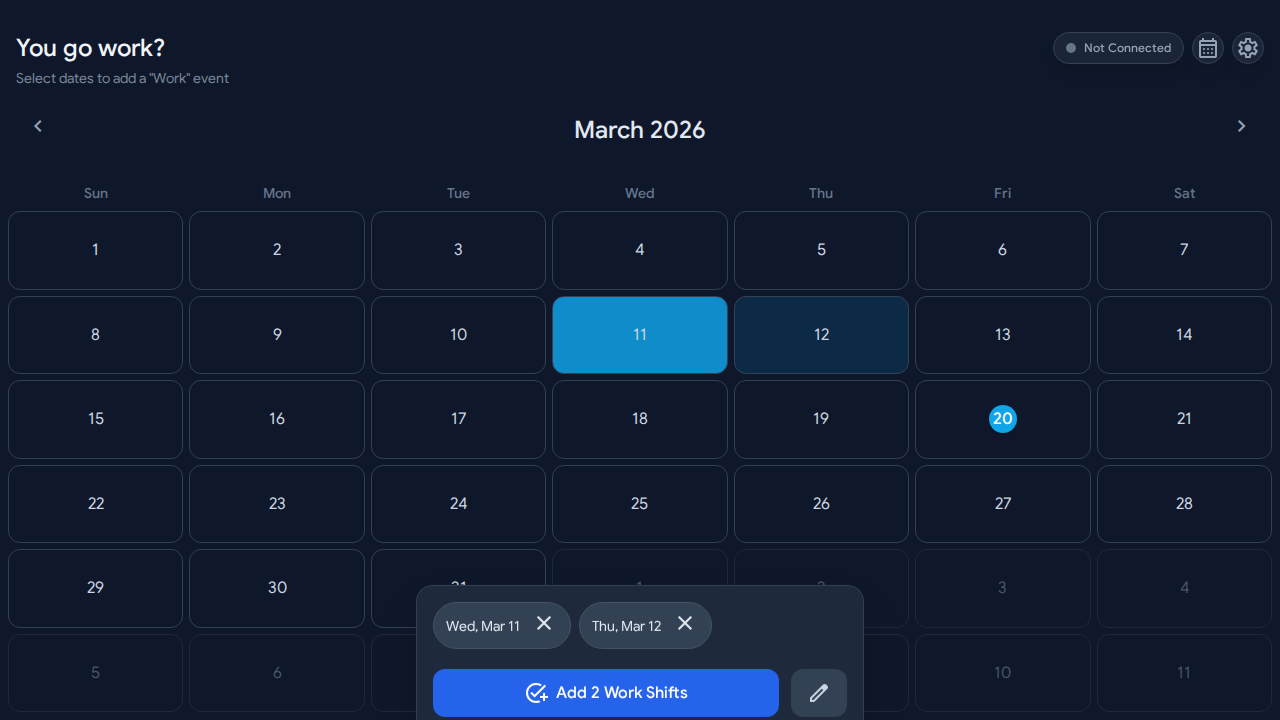
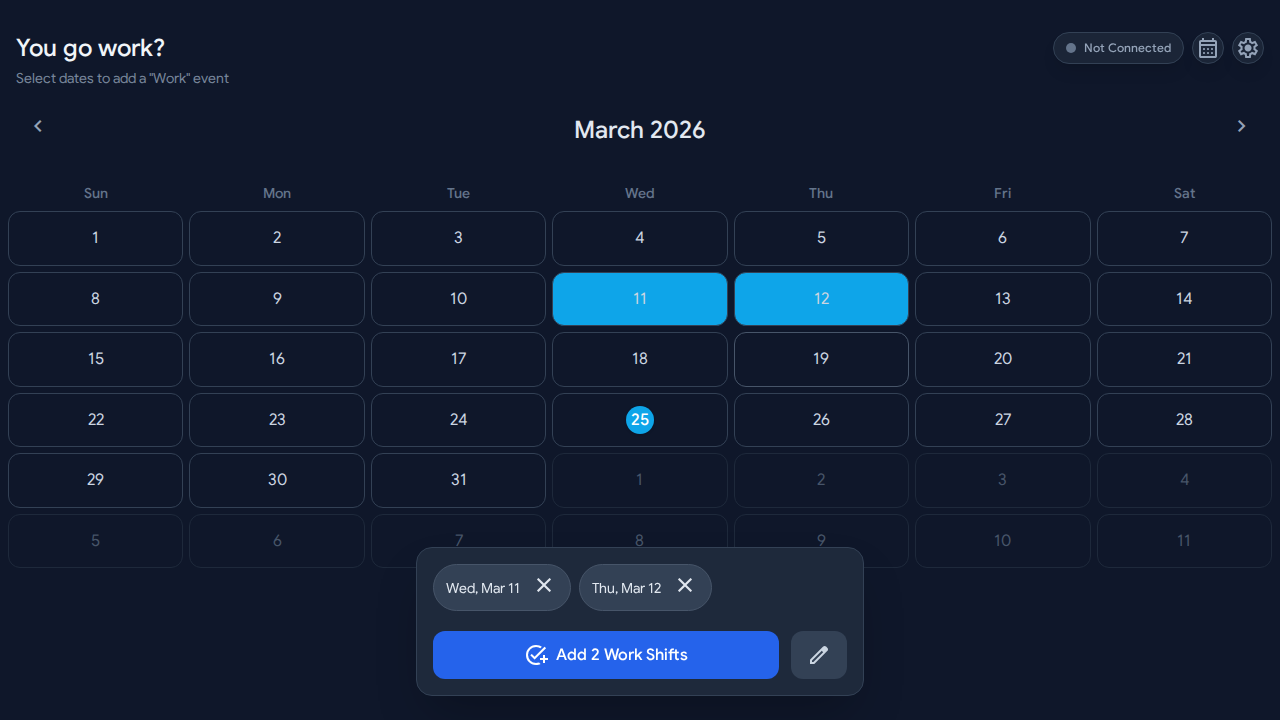
feat: add dynamic padding for selection tray in work mode
- Added a `pb-36` dynamic padding class to the Calendar container in `App.tsx` when the Selection Tray is visible in work mode.
- This ensures that the bottom row of the calendar grid is pushed up and remains fully visible and clickable, rather than being obscured by the fixed tray.
- Added smooth CSS transitions to the calendar container to match the tray's slide-up animation.

diff --git a/src/App.tsx b/src/App.tsx
@@ -145,9 +145,11 @@ const App: React.FC = () => {
 
   let mainContent;
   if (selectedTab === "calendar") {
+    const isTrayVisible = appMode === "work_only" && selectedDates.size > 0;
+
     mainContent = (
       <main className="w-full h-[100dvh] grid grid-rows-1 grid-cols-1 bg-slate-900">
-        <div className="row-start-1 col-start-1 flex flex-col h-full overflow-hidden">
+        <div className={`row-start-1 col-start-1 flex flex-col h-full overflow-hidden transition-all duration-300 ease-in-out ${isTrayVisible ? "pb-36" : ""}`}>
           <Calendar
             selectedDates={selectedDates}
             onDateSelect={handleDateSelect}
